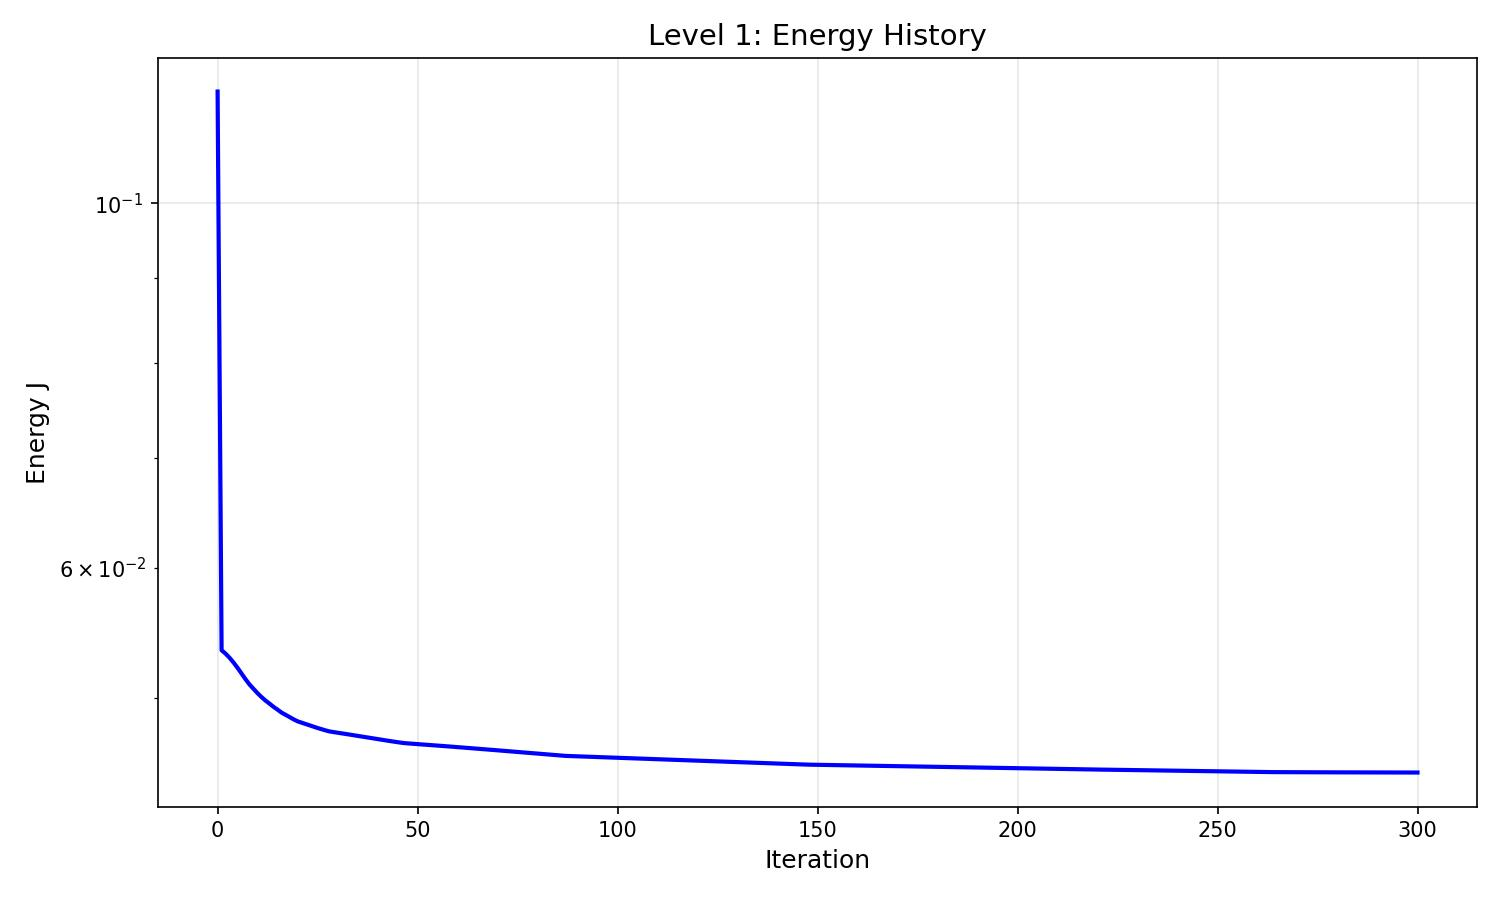
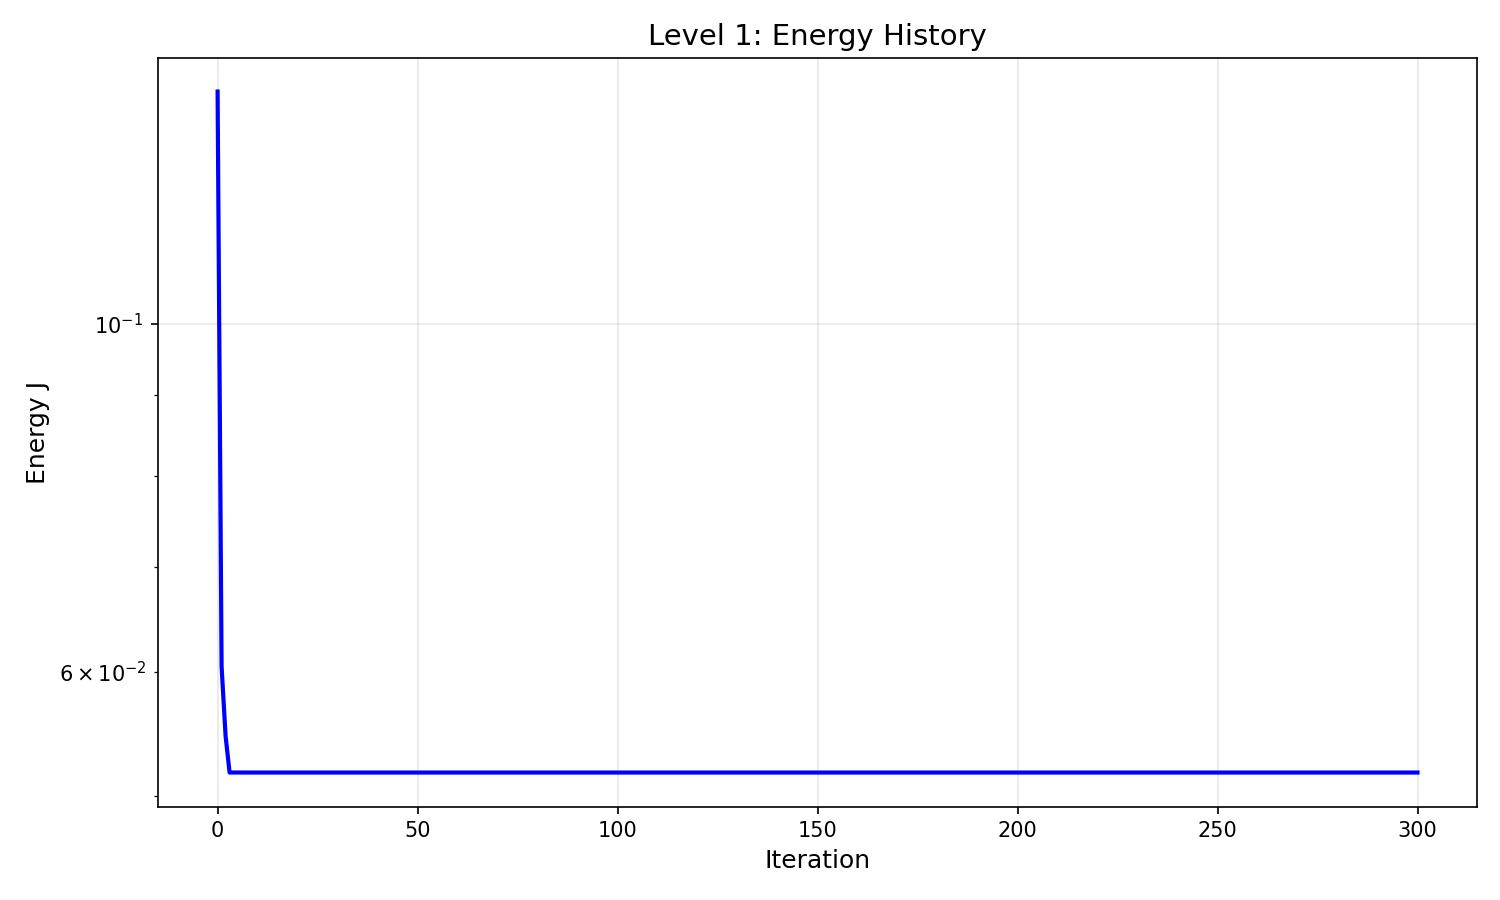
final

diff --git a/multilevel.py b/multilevel.py
@@ -15,13 +15,30 @@ import matplotlib.pyplot as plt
 import numpy as np
 import os
 import time
-
+from scipy.io import mmread
 # MRG packages
 import _env
 import preprocessing
 import processing
 import postprocessing
 
+def load_alpha_table(freq_file, alpha_file):
+    """Lit les fichiers .mtx contenant f (Hz) et alpha (complexe)."""
+    freq_tab = np.array(mmread(freq_file)).flatten()
+    alpha_tab = np.array(mmread(alpha_file)).flatten()
+
+    idx = np.argsort(freq_tab)
+    freq_tab = freq_tab[idx]
+    alpha_tab = alpha_tab[idx]
+    return freq_tab, alpha_tab
+
+
+def alpha_of_freq(freq, freq_tab, alpha_tab):
+    """Interpolation de α(f) complexe."""
+    freq_clamped = np.clip(freq, freq_tab[0], freq_tab[-1])
+    re = np.interp(freq_clamped, freq_tab, np.real(alpha_tab))
+    im = np.interp(freq_clamped, freq_tab, np.imag(alpha_tab))
+    return re + 1j * im
 
 def project_Uad_star(chi_tentative, mask_R, beta_target, tol=1e-6, max_iter=50):
     """
@@ -334,7 +351,15 @@ def run_optimization_for_level(level, N, f_Hz, V_obj, zeta0, mu1, max_iter, delt
     omega = k
     print(f"Frequency = {f_Hz} Hz  →  k = {k:.3f} rad/unit")
     print(f"Grid: {M}×{N}, spacestep = {spacestep:.4f}")
-
+    # =================================================================
+    # MATERIAL PROPERTY: α(f) for concrete (BETON)
+    # =================================================================
+    freq_tab_alpha, alpha_tab_alpha = load_alpha_table(
+        'dta_freq_MELAMINE.mtx',
+        'dta_alpha_MELAMINE.mtx'
+    )
+    Alpha = alpha_of_freq(f_Hz, freq_tab_alpha, alpha_tab_alpha)
+    print(f"Material α(f={f_Hz:.1f} Hz) = {Alpha.real:.4e} + {Alpha.imag:.4e}j")
     # =================================================================
     # PDE COEFFICIENTS
     # =================================================================
@@ -386,7 +411,7 @@ def run_optimization_for_level(level, N, f_Hz, V_obj, zeta0, mu1, max_iter, delt
     # =================================================================
     # ABSORBING MATERIAL COEFFICIENT
     # =================================================================
-    Alpha = 6.311111794566079 - 6.67835254158675*1j
+    #Alpha = 6.311111794566079 - 6.67835254158675*1j
     alpha_rob = Alpha * chi
 
     # =================================================================
